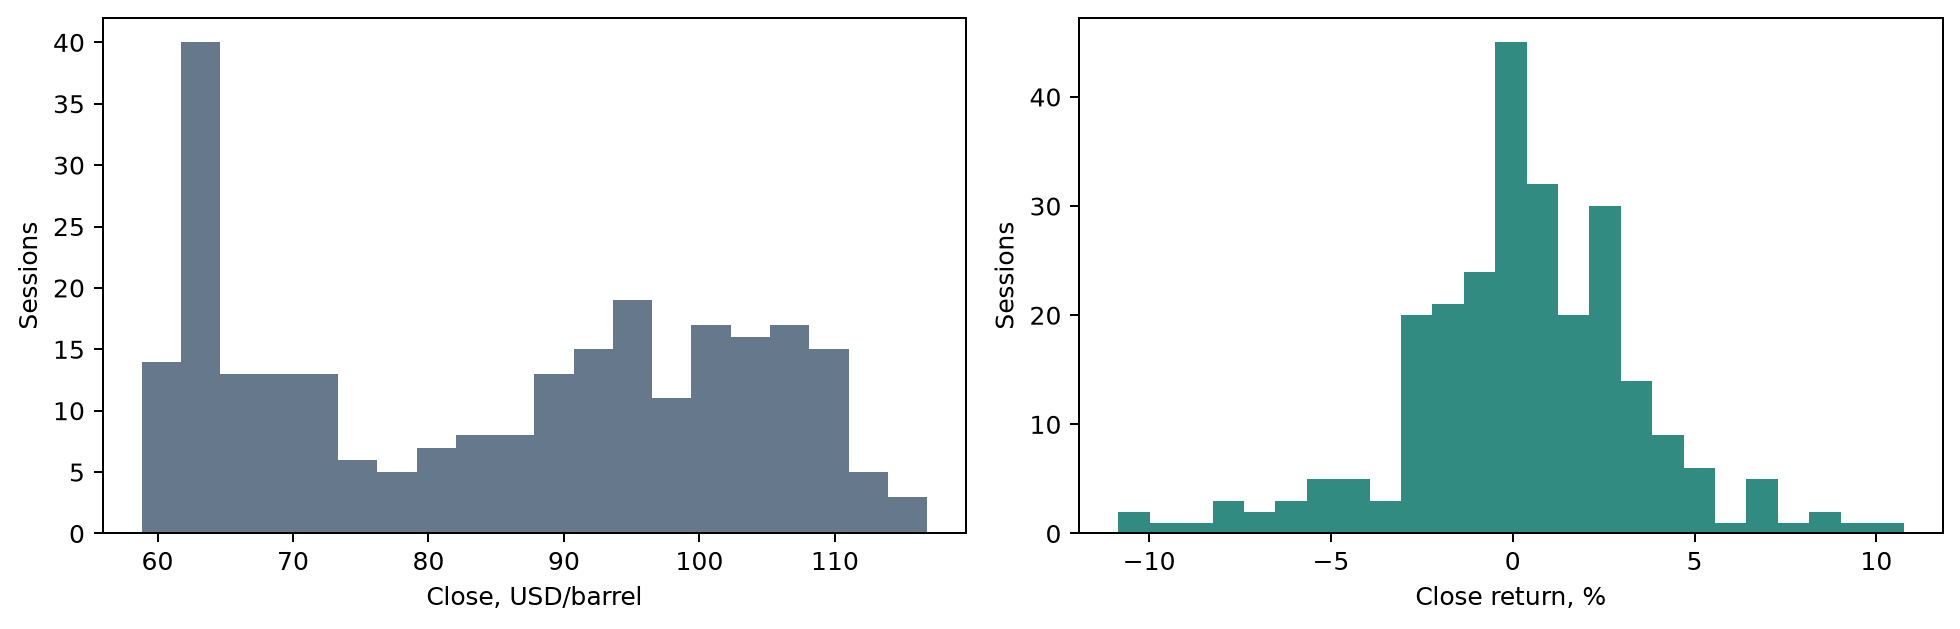
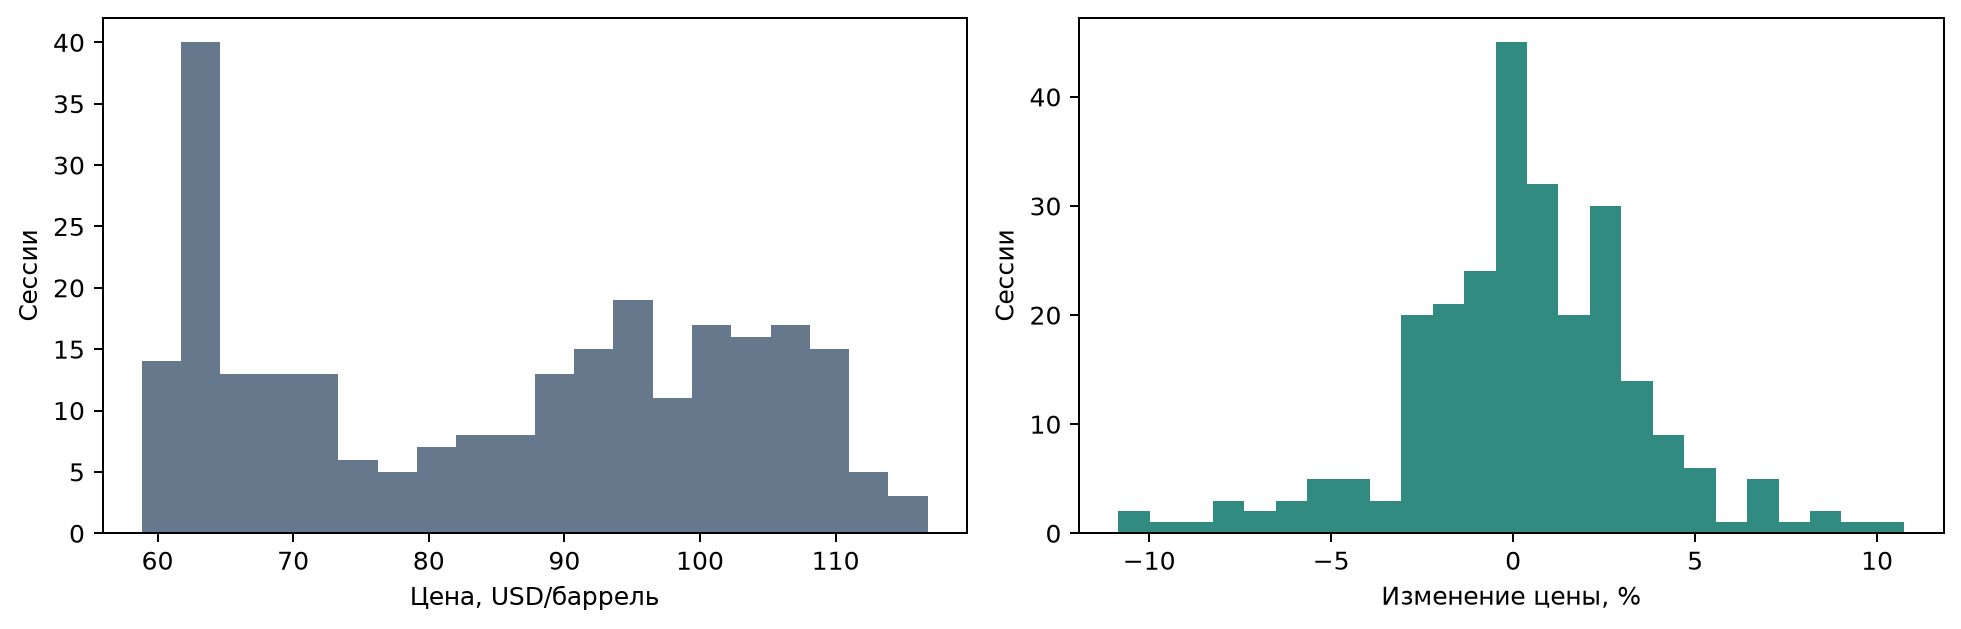
Use concise Russian labels in research figures

diff --git a/src/final_audit.py b/src/final_audit.py
@@ -206,28 +206,28 @@ def data_diagnostics(data):
         data.date.iloc[207],
         alpha=0.14,
         color="#d5a24a",
-        label="Validation targets available by first test origin",
+        label="Выбор моделей",
     )
     axes[0].axvspan(
         data.date.iloc[208],
         data.date.iloc[-1],
         alpha=0.14,
         color="#8864af",
-        label="Reserved test price interval",
+        label="Тестовые цели",
     )
-    axes[0].set_ylabel("Close, USD/barrel")
+    axes[0].set_ylabel("Цена, USD/баррель")
     axes[0].legend(fontsize=8, loc="upper left")
-    axes[0].set_title("BRENT.CMD/USD bid: observed close and simple returns")
+    axes[0].set_title("Brent: цена закрытия и её изменение")
     axes[1].bar(data.date, 100 * data["return"], color="#318b80", width=1)
-    axes[1].set_ylabel("Close return, %")
+    axes[1].set_ylabel("Изменение цены, %")
     save(fig, "market_and_returns.png")
     fig, axes = plt.subplots(1, 2, figsize=(11, 3.6))
     axes[0].hist(data.close, bins=20, color="#65788c")
-    axes[0].set_xlabel("Close, USD/barrel")
+    axes[0].set_xlabel("Цена, USD/баррель")
     axes[1].hist(100 * data["return"].dropna(), bins=25, color="#318b80")
-    axes[1].set_xlabel("Close return, %")
+    axes[1].set_xlabel("Изменение цены, %")
     for ax in axes:
-        ax.set_ylabel("Sessions")
+        ax.set_ylabel("Сессии")
     save(fig, "data_distributions.png")
     return checks
 
@@ -305,7 +305,7 @@ def final_diagnostics():
         sub = df[df.horizon == h]
         truth = sub[sub.candidate == "naive"].sort_values("target_date")
         ax.plot(
-            pd.to_datetime(truth.target_date), truth.actual, color="#182c40", lw=2, label="Actual"
+            pd.to_datetime(truth.target_date), truth.actual, color="#182c40", lw=2, label="Факт"
         )
         for cid, g in sub.groupby("candidate"):
             g = g.sort_values("target_date")
@@ -317,8 +317,8 @@ def final_diagnostics():
                 color=COLORS[cid],
                 label=NAMES[cid],
             )
-        ax.set_title(f"h={h}: forecasts aligned to target dates, reference seed 42")
-        ax.set_ylabel("USD/barrel")
+        ax.set_title(f"Горизонт {h}: факт и прогноз по датам цели (seed=42)")
+        ax.set_ylabel("USD/баррель")
         ax.legend(ncol=5, fontsize=8)
     save(fig, "test_forecasts.png")
     fig, axes = plt.subplots(2, 2, figsize=(12, 7))
@@ -329,15 +329,15 @@ def final_diagnostics():
                 g.error, bins=12, histtype="step", lw=1.5, color=COLORS[cid], label=NAMES[cid]
             )
         axes[row, 0].axvline(0, color="black", lw=0.5)
-        axes[row, 0].set_xlabel("Prediction minus actual, USD/barrel")
-        axes[row, 0].set_title(f"h={h}: signed errors")
+        axes[row, 0].set_xlabel("Прогноз минус факт, USD/баррель")
+        axes[row, 0].set_title(f"Горизонт {h}: ошибки со знаком")
         axes[row, 0].legend(fontsize=8)
         groups = list(sub.groupby("candidate"))
         axes[row, 1].boxplot(
             [g.abs_error for _, g in groups], tick_labels=[NAMES[c] for c, _ in groups]
         )
-        axes[row, 1].set_title(f"h={h}: absolute errors")
-        axes[row, 1].set_ylabel("USD/barrel")
+        axes[row, 1].set_title(f"Горизонт {h}: абсолютные ошибки")
+        axes[row, 1].set_ylabel("USD/баррель")
     save(fig, "test_error_distributions.png")
     fig, axes = plt.subplots(1, 2, figsize=(12, 4))
     for ax, h in zip(axes, [1, 5]):
@@ -350,9 +350,9 @@ def final_diagnostics():
                 label=NAMES[cid],
                 color=COLORS[cid],
             )
-        ax.set_xlabel("Absolute realized price change")
-        ax.set_ylabel("Absolute forecast error")
-        ax.set_title(f"h={h}, USD/barrel")
+        ax.set_xlabel("Абсолютное изменение цены")
+        ax.set_ylabel("Абсолютная ошибка прогноза")
+        ax.set_title(f"Горизонт {h}, USD/баррель")
         ax.legend(fontsize=8)
     save(fig, "errors_vs_price_changes.png")
     fig, axes = plt.subplots(1, 2, figsize=(11, 4))
@@ -369,9 +369,9 @@ def final_diagnostics():
                 fontsize=8,
             )
         ax.set_xscale("log")
-        ax.set_xlabel("Median fit + feature preparation + forecast, ms (log)")
-        ax.set_ylabel("Test RMSE")
-        ax.set_title(f"h={h}: same CPU, seed 42")
+        ax.set_xlabel("Подготовка, обучение и прогноз: медиана, мс (лог. шкала)")
+        ax.set_ylabel("RMSE на тесте")
+        ax.set_title(f"Горизонт {h}: одна машина, seed=42")
     save(fig, "quality_vs_cost.png")
 
 

diff --git a/src/report_final.py b/src/report_final.py
@@ -103,17 +103,25 @@ def main():
     for ax, h in zip(axes, [1, 5]):
         sub = primary[primary.horizon == h].sort_values("RMSE")
         ax.barh(
-            sub.candidate,
+            sub.candidate.map(
+                {
+                    "naive": "Naive",
+                    "ses": "SES",
+                    "elastic_1.0": "ElasticNet",
+                    "lstm_8": "LSTM",
+                    "rnn_8": "RNN",
+                }
+            ),
             sub.RMSE,
             color=["#5c708a" if x == "naive" else "#8564ab" for x in sub.candidate],
         )
         ax.invert_yaxis()
-        ax.set_title(f"Horizon {h} trading day(s)")
-        ax.set_xlabel("Test RMSE, USD/barrel")
+        ax.set_title("На одну торговую сессию" if h == 1 else "На пять торговых сессий")
+        ax.set_xlabel("RMSE на тесте, USD/баррель")
         ax.set_xlim(0, sub.RMSE.max() * 1.2)
         for i, v in enumerate(sub.RMSE):
             ax.text(v + 0.02, i, f"{v:.3f}", va="center")
-    fig.suptitle("Locked finalists: 46 test origins; neural reference seed 42")
+    fig.suptitle("Тест: 46 дат прогноза; нейросети с seed=42")
     fig.tight_layout()
     fig.savefig(ROOT / "results/figures/final_test_rmse.png", dpi=170)
     plt.close(fig)
